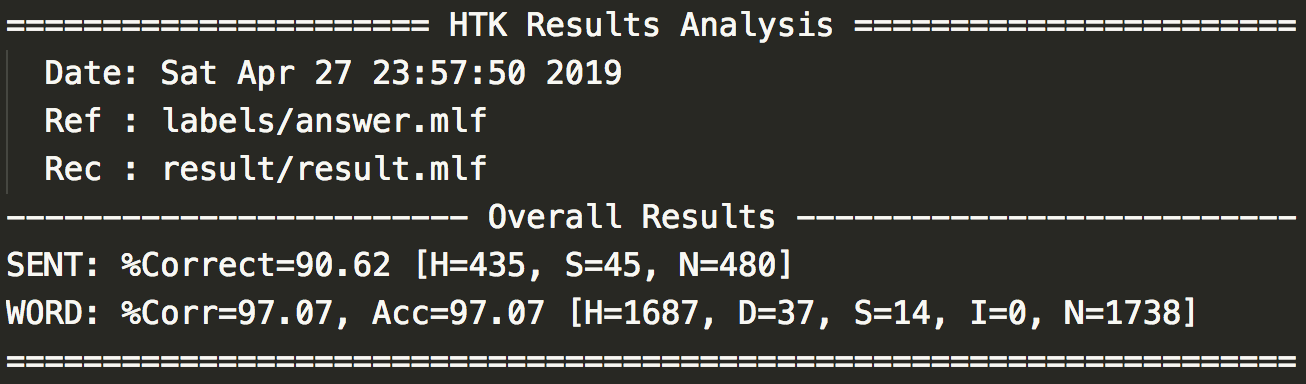
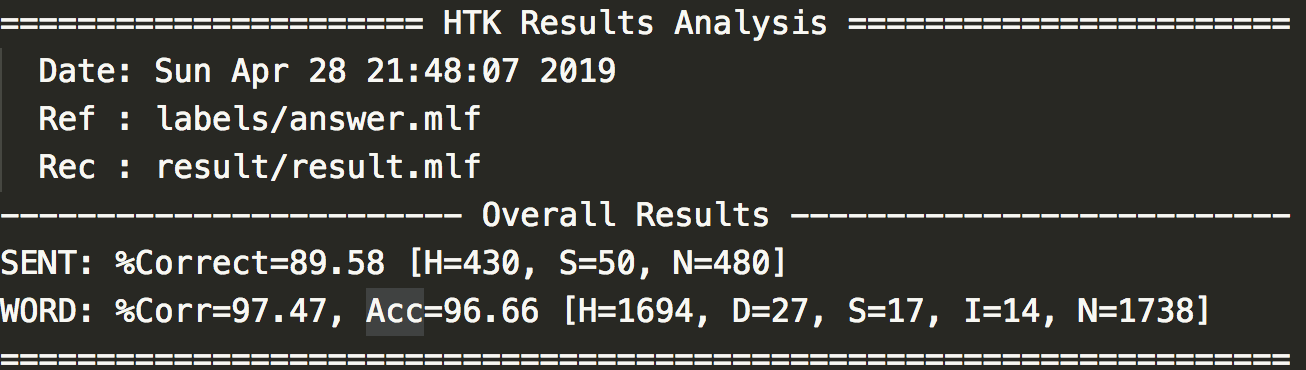
update readme

diff --git a/dsp_hw2/readme.md b/dsp_hw2/readme.md
@@ -18,7 +18,10 @@ bash 04_testing.sh
 <img src='assets/improved.png' width='500px'>
 
 ## 4. Describe training process and accuracy (30%)
-- Number of states: 16
-- Gaussian mixtures: 5
-- iterations: 2
+- Best
+  - Number of states: 12
+  - Gaussian mixtures: 5
+  - iterations: 3
+  - Corr: 97.47%, Acc: 96.66%
 - How some changes effect the performance: 
+<img src="assets/experiment.png" width="500px">
